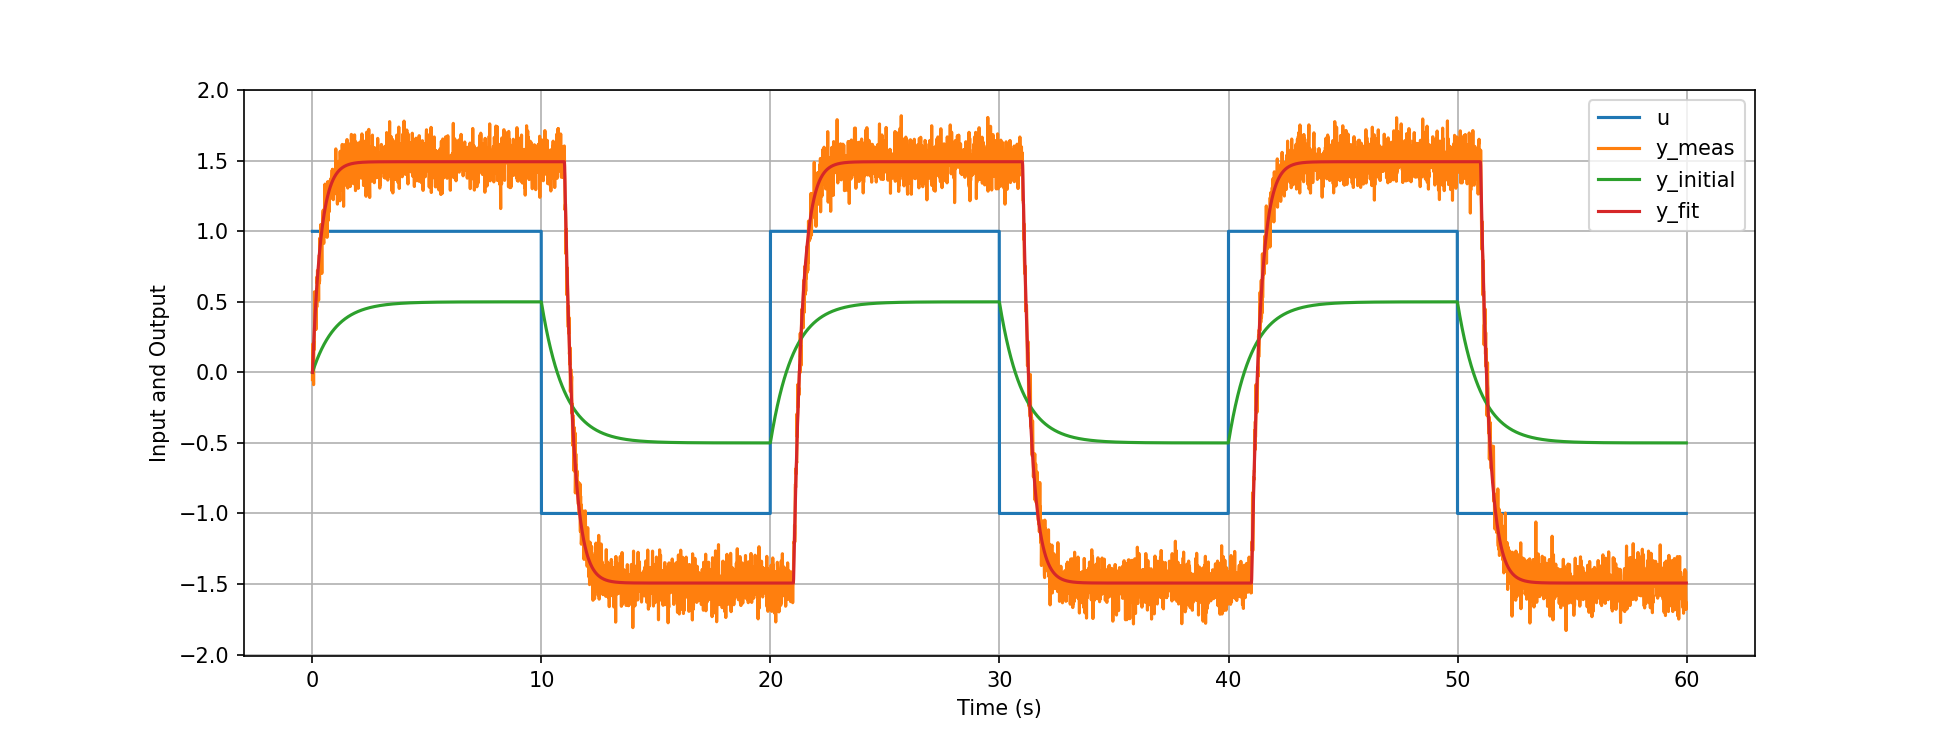
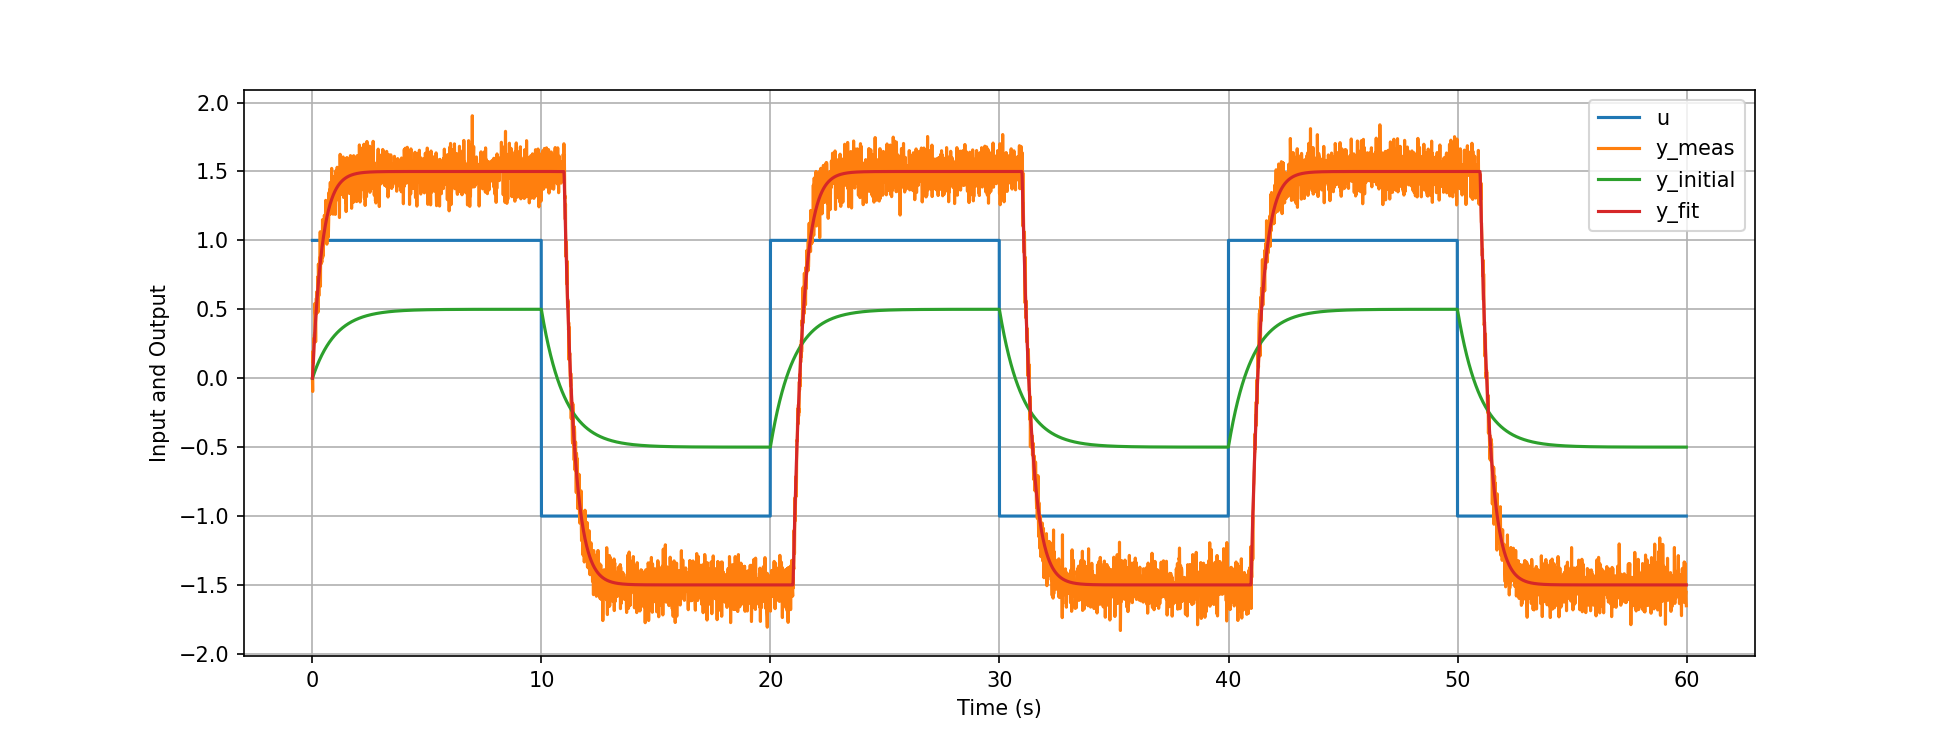
discrete formulation

diff --git a/FOPDT_fitter.py b/FOPDT_fitter.py
@@ -9,58 +9,66 @@ def delay(x, t, theta):
     return np.interp(t - theta, t, x)
 
 
-def residual(tua, K, theta, u, y, t):
+def residual(a, b, theta, u, y, t):
     """
     Calculates the residuals for a given set of parameters and data.
     """
-    y_dot = np.gradient(y, t)
+    y_k0 = y[:-1]
+    y_k1 = y[1:]
+
+    dt = (t[1:] - t[:-1])
 
     # Calculate residuals
-    res = tua * y_dot + y - K * delay(u, t, theta)
+    res = -y_k1 + (1 + dt*a) * y_k0 + dt*b * delay(u, t, theta)[:-1]
 
     # add dimension the array because numpy
     return np.array([res]).T
 
 
-def J_residual(tua, K, theta, u, y, t):
+def J_residual(a, b, theta, u, y, t):
     """
     Calculates the jacobian of the residuals
     """
+    dt = (t[1:] - t[:-1])
+    y_k0 = y[:-1]
+    y_k1 = y[1:]
+
     # Shift input and derivative by theta and calculate Jacobian matrix
-    u_shift = np.interp(t - theta, t, u)
-    du_shift = np.interp(t - theta, t, np.gradient(u, t))
-    J_res = np.array([np.gradient(y, t), -u_shift, K * du_shift]).T
+    u_shift = delay(u, t, theta)[:-1]
+    du_shift = delay(np.gradient(u, t), t, theta)[:-1]
+
+    J_res = np.array([dt*y_k0, dt*u_shift, dt*b*du_shift*(-1)]).T
 
     return J_res
 
 
-def objective(tua, K, theta, u, y, t):
+def objective(a, b, theta, u, y, t):
     """
     Calculates the objective function for a given set of parameters and data.
     """
-    r = residual(tua, K, theta, u, y, t)
+    r = residual(a, b, theta, u, y, t)
     return 0.5*np.sum(r**2)
 
 
-def J_objective(tua, K, theta, u, y, t):
+def J_objective(a, b, theta, u, y, t):
     """
     Calculates the Jacobian of the objective
     """
-    res = residual(tua, K, theta, u, y, t)
-    J_res = J_residual(tua, K, theta, u, y, t)
+    res = residual(a, b, theta, u, y, t)
+    J_res = J_residual(a, b, theta, u, y, t)
 
     return res.T @ J_res
 
 
-def step(tua, K, theta, delta, alpha):
+def step(a, b, theta, delta, alpha):
     """
     Changes updates the decision variables based on the direction and size
     """
-    tua_0 = tua + alpha * delta[0]
-    K_0 = K + alpha * delta[1]
+    a_0 = a + alpha * delta[0]
+    b_0 = b + alpha * delta[1]
     theta_0 = theta + alpha * delta[2]
 
-    return tua_0[0], K_0[0], theta_0[0]
+    return a_0[0], b_0[0], theta_0[0]
 
 
 def armijo_cond(S_0, S_1, J_s, delta, alpha, c=0.5):
@@ -70,16 +78,16 @@ def armijo_cond(S_0, S_1, J_s, delta, alpha, c=0.5):
     return S_1 < (S_0 + c * alpha * J_s @ delta)
 
 
-def line_search(tua, K, theta, u, y, t, delta, c):
+def line_search(a, b, theta, u, y, t, delta, c):
     """
     Performs a line search to find the step size alpha
     """
-    S0 = objective(tua, K, theta, u, y, t)
-    J_s = J_objective(tua, K, theta, u, y, t)
+    S0 = objective(a, b, theta, u, y, t)
+    J_s = J_objective(a, b, theta, u, y, t)
 
     alpha = 1
     while (alpha > 1e-10):
-        S1 = objective(*step(tua, K, theta, delta, alpha), u, y, t)
+        S1 = objective(*step(a, b, theta, delta, alpha), u, y, t)
         # check if armijo condition is met
         if armijo_cond(S0, S1, J_s, delta, alpha, c):
             return alpha
@@ -90,7 +98,25 @@ def line_search(tua, K, theta, u, y, t, delta, c):
     return 0
 
 
-def fit_model(tua_0, K_0, theta_0, u, y, t, max_iters=100, c=0.5, verbose=False):
+def convert_to_a_b(tua, K):
+    """
+    Converts the parameters to the form used in the model
+    """
+    a = -1/tua
+    b = K/tua
+    return a, b
+
+
+def convert_to_tua_K(a, b):
+    """
+    Converts the parameters to the form used in the optimization problem
+    """
+    tua = -1/a
+    K = b*tua
+    return tua, K
+
+
+def fit_model(tua_0, K_0, theta_0, u, y, t, max_iters=150, c=0.5, verbose=False):
     """
     Solves an optimization problem to find the values of the parameters `tua`, `K`, and `theta`
     that minimize the sum of squared residuals between the input `u`, its time derivative `u_dot`,
@@ -99,8 +125,9 @@ def fit_model(tua_0, K_0, theta_0, u, y, t, max_iters=100, c=0.5, verbose=False)
     start_time = time.time()
 
     # Define initial parameter values
-    tua = tua_0
-    K = K_0
+    # tua = tua_0
+    # K = K_0
+    a, b = convert_to_a_b(tua_0, K_0)
     theta = theta_0
 
     iter_count = 0
@@ -110,25 +137,26 @@ def fit_model(tua_0, K_0, theta_0, u, y, t, max_iters=100, c=0.5, verbose=False)
     # Loop until maximum number of iterations is reached or line search fails
     while iter_count < max_iters and not end_reached:
         # Calculate current objective function and parameter values
-        S = objective(tua, K, theta, u, y, t)
+        S = objective(a, b, theta, u, y, t)
 
         if verbose:
             # Print current parameter values and objective function
+            tua, K = convert_to_tua_K(a, b)
             print(
                 f"Iteration {iter_count}: S = {S:.5f}, tua = {tua:.5f}, K = {K:.5f}, theta = {theta:.5f}, alpha = {alpha:.5f}")
 
         # Calculate the Jacobian of the residuals
-        J_res = J_residual(tua, K, theta, u, y, t)
+        J_res = J_residual(a, b, theta, u, y, t)
 
         # Calculate the residuals
-        r = residual(tua, K, theta, u, y, t)
+        r = residual(a, b, theta, u, y, t)
 
         # Calculate the Newton step
         # add regularization to avoid singular matrix
         delta = np.linalg.solve(J_res.T @ J_res + 1e-5*np.eye(3), -J_res.T @ r)
 
         # apply line search for globalization
-        alpha = line_search(tua, K, theta, u, y, t, delta, c=c)
+        alpha = line_search(a, b, theta, u, y, t, delta, c=c)
 
         # Check if line search failed
         if alpha == 0:
@@ -136,12 +164,13 @@ def fit_model(tua_0, K_0, theta_0, u, y, t, max_iters=100, c=0.5, verbose=False)
             break
 
         # Update parameter values and iteration count
-        tua, K, theta = step(tua, K, theta, delta, alpha)
+        a, b, theta = step(a, b, theta, delta, alpha)
 
         iter_count += 1
 
     # Print solution and total time taken to solve optimization problem
     if verbose:
+        tua, K = convert_to_tua_K(a, b)
         print(f"\nSolution: tua = {tua:.5f}, K = {K:.5f}, theta = {theta:.5f}")
         print(f"Total time taken: {time.time() - start_time:.5f} seconds")
 
